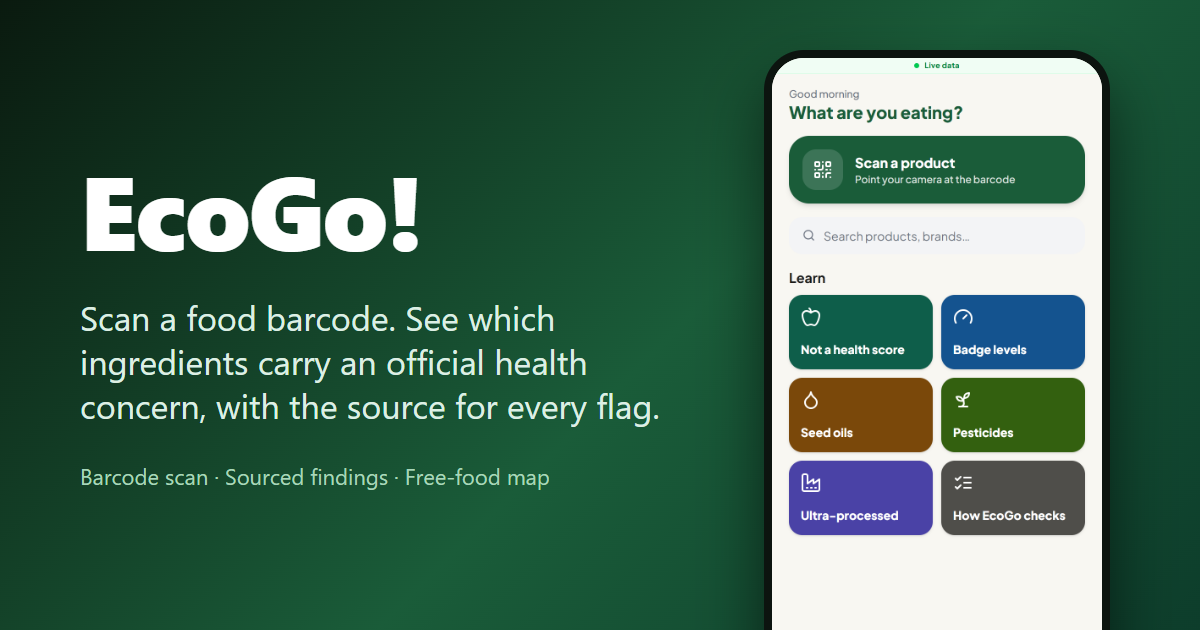
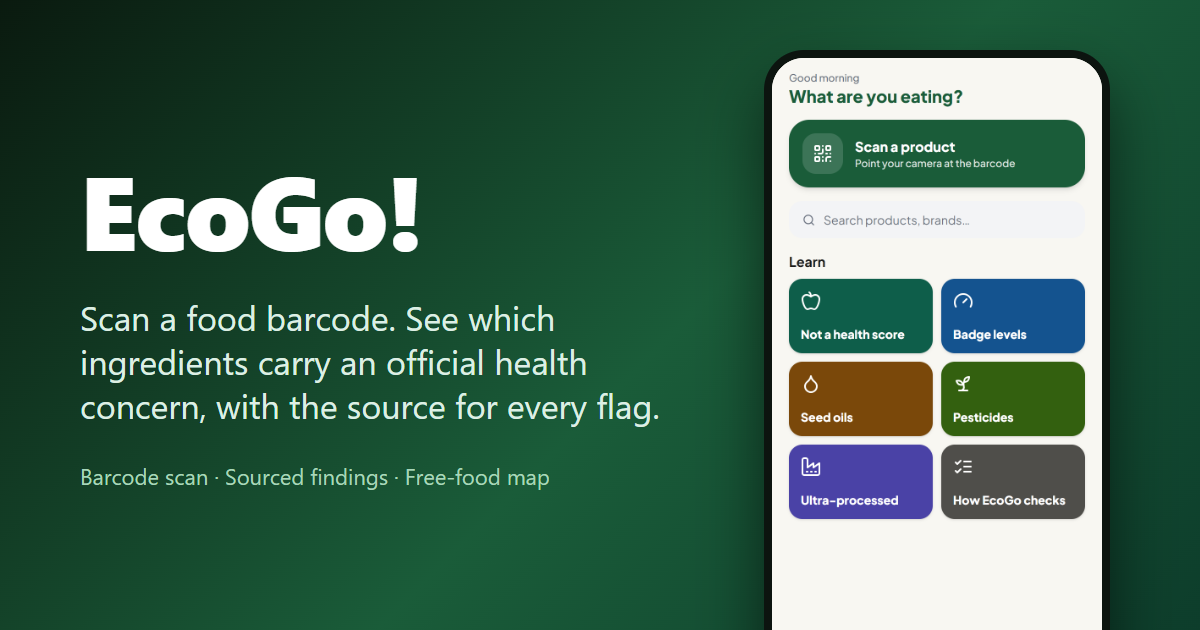
RW1-01 + 053 live: spec to archive, 053 done, KNOWN_ISSUES updated, CLAUDE.md state; preview image re-shot without Live data

Changed region(s): [[0.6475, 0.3921, 0.925, 0.8746], [0.6475, 0.0905, 0.925, 0.3921]]

diff --git a/PROJECT_HANDOFF.md b/PROJECT_HANDOFF.md
@@ -164,7 +164,7 @@ sensible defaults, but they're unconfirmed. Decisions 006+ were made in this rep
 | 050 | M8 follow-up 4: a true progress bar on Send: the photo upload's real percent (via an upload that reports progress), then "Open Food Facts is saving it…"; "Checking you're human…" only while the robot check runs; accessible and reduced-motion safe. No server change. Spec `docs/superpowers/specs/2026-10-09-m8-followup4-send-progress-design.md` | Owner, 2026-10-09, after the follow-up 3 phone test; picked over a step bar and a moving bar with seconds | **Done** (live 2026-10-09, 5a08ad6; spec `docs/archive/2026-10-09-m8-followup4-send-progress-design.md`) |
 | 051 | M8 follow-up 5: people without an OFF account can help fix existing OFF products: "Add the ingredients" when OFF has none (same add flow; the server fills text only where OFF has none, D10) and "Send new photos" (photos only, no text) on every crowd-sourced OFF product; EcoGo never overwrites OFF text. Spec `docs/superpowers/specs/2026-10-09-m8-followup5-fix-off-products-design.md` | Owner, 2026-10-09, who has products on OFF with missing or wrong details; picked over "add missing only" and keeping Update info only; built right after follow-up 4, before M8.1 | Active; after follow-up 6 (052) |
 | 052 | M8 follow-up 6 after Minh's first real submission (Celia's Red Lentils, 0094922021397, live on OFF): fix the false "blurry" on clear low-light photos, never prefill unreadable junk (empty box + "Show what we read"), a visible "No ingredients list? Type it" button, an optional Crop on each photo (the ingredients photo is read again), no empty line-list card. Built before follow-up 5 because junk text could reach the real OFF. Spec `docs/superpowers/specs/2026-10-09-m8-followup6-photo-fixes-crop-design.md` | Owner, 2026-10-09; crop placement picked from options (on the thumbnails, optional, over a preview after every photo or ingredients only); order picked (photo fixes first) | **Done** (live 2026-10-14, 4bb0671; spec `docs/archive/2026-10-09-m8-followup6-photo-fixes-crop-design.md`) |
-| 053 | Trust wording fixes from ChatGPT's audits (TRUST-01/02, R2-01/PRIVACY-01, R2-02): the badge page no longer calls every level cancer evidence; the "none" row says nothing matched EcoGo's list; Profile's subtitle names what stays in the browser; the map privacy line says OSM's servers see the viewed area; the green "Live data" label is removed (the offline banner stays). Copy only. Spec `docs/superpowers/specs/2026-10-14-trust-wording-design.md` | Owner, 2026-10-14, approved as written; picked removing "Live data" over renaming it "Online" | Active; after RW1-01 |
+| 053 | Trust wording fixes from ChatGPT's audits (TRUST-01/02, R2-01/PRIVACY-01, R2-02): the badge page no longer calls every level cancer evidence; the "none" row says nothing matched EcoGo's list; Profile's subtitle names what stays in the browser; the map privacy line says OSM's servers see the viewed area; the green "Live data" label is removed (the offline banner stays). Copy only. Spec `docs/superpowers/specs/2026-10-14-trust-wording-design.md` | Owner, 2026-10-14, approved as written; picked removing "Live data" over renaming it "Online" | **Done** (live 2026-10-14, 7af98f4; spec `docs/archive/2026-10-14-trust-wording-design.md`) |
 
 ## Open questions only the owner can answer
 

diff --git a/CLAUDE.md b/CLAUDE.md
@@ -20,9 +20,9 @@ Barcode scan → sourced ingredient concerns. React 18 + Vite 6 + Tailwind 4 + S
 - Every push to `main` deploys to GitHub Pages.
 
 ## Current state (update when a milestone ships)
-- M1–M14 and M8 live on `origin/main` (M11 quick wins; M12 Home "Learn" tiles; M13 Map near me: ZIP/radius, 183 OSM places + 191 LA County sites, report a problem; M14 Collections: save sheet + lists on this device; M8 add a product to Open Food Facts via the `off-submit` Edge Function (real OFF since 2026-10-09, owner swapped the secrets), + no-barcode ingredient check). M8 follow-ups 1–4 and 6 live (047–050, 052; progress bar, blur check, label trim, crop, no junk prefill). Next: RW1-01 stale-reading fix (Knight VI), trust wording (053), follow-up 5 (051, add missing ingredients / send new photos for existing OFF products), then M8.1 Suggest a place / in-app Report a problem (045). **M10**: own USDA copy, 430,127 products in Supabase `foods` (engine_rev 4, after the M10.1–M10.3 processed-meat rules); the app never calls USDA. Re-import: empty the table first (a reload over a full one doubles its size).
+- M1–M14 and M8 live on `origin/main` (M11 quick wins; M12 Home "Learn" tiles; M13 Map near me: ZIP/radius, 183 OSM places + 191 LA County sites, report a problem; M14 Collections: save sheet + lists on this device; M8 add a product to Open Food Facts via the `off-submit` Edge Function (real OFF since 2026-10-09, owner swapped the secrets), + no-barcode ingredient check). M8 follow-ups 1–4 and 6 live (047–050, 052; progress bar, blur check, label trim, crop, no junk prefill). RW1-01 (latest photo wins) and trust wording (053) live 2026-10-14. Next: follow-up 5 (051, add missing ingredients / send new photos for existing OFF products), then M8.1 Suggest a place / in-app Report a problem (045). **M10**: own USDA copy, 430,127 products in Supabase `foods` (engine_rev 4, after the M10.1–M10.3 processed-meat rules); the app never calls USDA. Re-import: empty the table first (a reload over a full one doubles its size).
 - Order after M10 (owner, 2026-10-05): `docs/superpowers/ideas/2026-10-05-owner-app-review.md` (quick wins → Home redesign → Map near me → Collections → M8 add-a-product → …).
-- Active specs: `docs/superpowers/specs/` (m10, m101–m103, m8-followup5, trust-wording). Decisions live ONLY in the `PROJECT_HANDOFF.md` decision log; don't re-open them.
+- Active specs: `docs/superpowers/specs/` (m10, m101–m103, m8-followup5). Decisions live ONLY in the `PROJECT_HANDOFF.md` decision log; don't re-open them.
 
 ## Multi-chat rules
 - Commit by exact path. Never `add -A`, `commit -a`, amend, reset, rebase, stash, or force-push on `main` (hook enforces). Builds happen on worktree branches.

diff --git a/KNOWN_ISSUES.md b/KNOWN_ISSUES.md
@@ -254,13 +254,13 @@ which also removed tw-animate-css, the unused theme tokens and `productImporter`
 
 Reports are in Minh's Downloads (`EcoGo_Claude_Return_Brief_2026-10-13.md` indexes them). Advice, not decisions.
 - **Fixed by 052 (live 2026-10-14, 4bb0671):** junk OCR prefill, false "blurry", hidden "Type it", crop.
-- **Still open, confirmed in the 052 code:** **RW1-01** stale reading: `AddProductFlow.acceptPhoto` and
+- **Fixed 2026-10-14 (7af98f4):** **RW1-01** stale reading: `AddProductFlow.acceptPhoto` and
   `IngredientCheck.read` set the text after `await readPhoto` without checking the photo is still the current one, so a
-  slow read can overwrite typed text or pair an old photo's text with a newer photo. Next assignment.
+  slow read could overwrite typed text or pair an old photo's text with a newer photo; now `src/lib/latest.ts` drops stale results.
 - **Open, need an owner decision first:** RW1-02/05 (Close during Send loses the draft; the name field stays editable
   after the snapshot is sent); RW1-03/04 (a lost reply shows "Not sent" though OFF may have it; a rejected photo is
   described as already present).
-- **Copy / trust (planner specs):** TRUST-01 (badge article calls every level cancer evidence; Yellow 5 isn't),
+- **Copy / trust:** fixed 2026-10-14 by 053 (7af98f4): TRUST-01 (badge article calls every level cancer evidence; Yellow 5 isn't),
   TRUST-02 ("No official finding" reads as none anywhere; scope it to EcoGo's list), COPY-01 (seed-oils fat profile;
   needs an official quote), R2-01 / PRIVACY-01 (Profile "stays on this device" vs. the OFF log, lookups and map
   tiles), R2-02 ("Live data" next to dated County/USDA records).

diff --git a/docs/archive/2026-10-14-trust-wording-design.md b/docs/archive/2026-10-14-trust-wording-design.md
@@ -1,7 +1,7 @@
 # Trust wording fixes (ChatGPT audit TRUST-01, TRUST-02, R2-01/PRIVACY-01, R2-02)
 
 - **Date:** 2026-10-14
-- **Status:** **Approved** by the owner 2026-10-14 as written (decision 053; "Live data" removed)
+- **Status:** **Done**, live 2026-10-14 (origin/main 7af98f4); approved by the owner 2026-10-14 as written (decision 053; "Live data" removed)
 - **Why:** ChatGPT's trust/UI audit and R2 browser review (2026-10-11 → 14, triaged in KNOWN_ISSUES "Outside audits")
   found live wording that says more than EcoGo knows. EcoGo's promise is that nothing it shows is invented; these lines
   overstate. Copy only: no engine, data or layout changes. Every factual phrase below comes from EcoGo's own sourced
